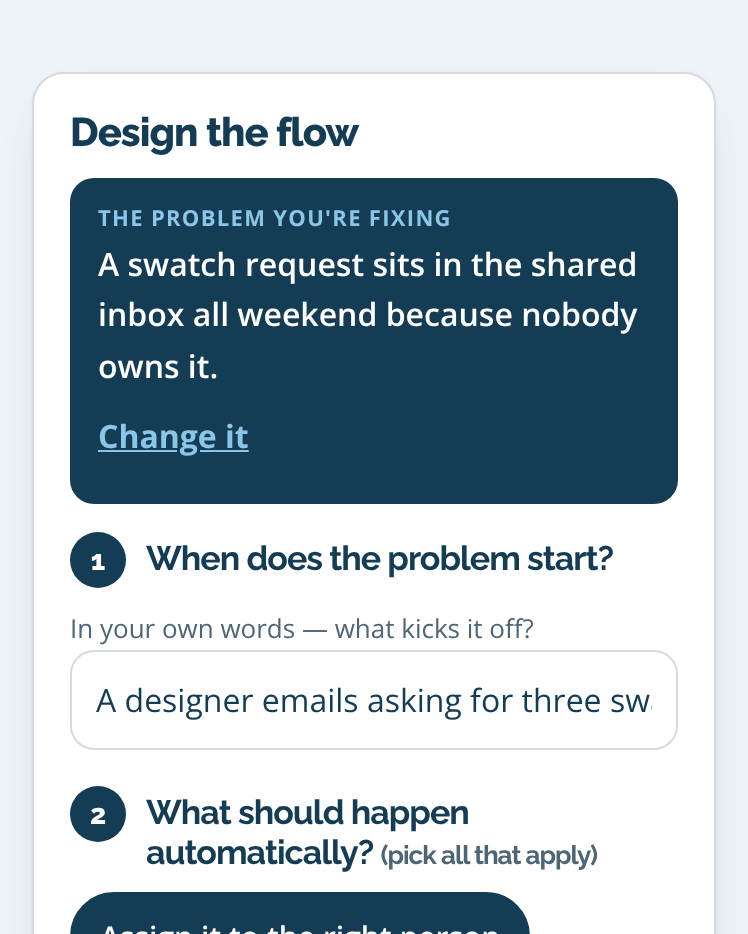
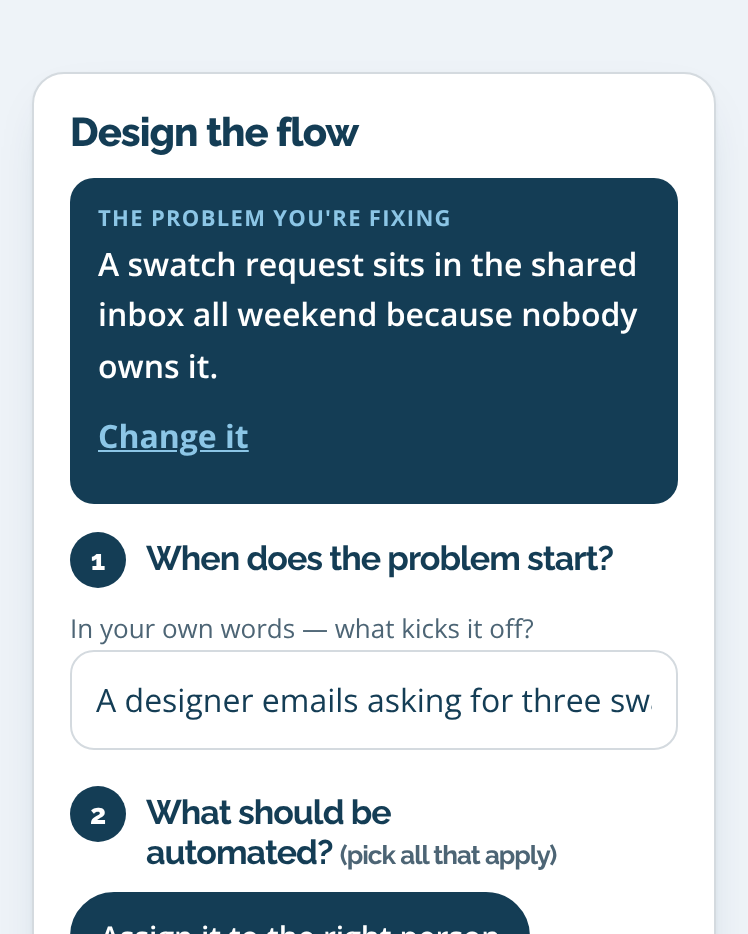
Step 3 wording: "What should be automated?"
- Question 2 is now "What should be automated?" rather than "What
  should happen automatically?".
- Its custom field follows: "Something else that should be automated?"
- The step's own how-to line matches.
- Regenerated the slide screenshots so slide 19 shows the new wording.

Claude-Session: https://claude.ai/code/session_01Hr7wMfKYoBeYjmoic14ePz

Changed region(s): [[0.369, 0.8383, 0.7995, 0.9315]]

diff --git a/curran/breakout.html b/curran/breakout.html
@@ -161,7 +161,7 @@
     <div class="card">
       <div class="eyebrow">Step 3 · Design the flow</div>
       <h2>Design the flow</h2>
-      <div class="howto"><div class="k">How to do this step</div><p>Describe the flow as a recipe in four parts: <b>when</b> it starts, <b>what happens automatically</b>, <b>who is in charge</b>, and <b>how you'd know it worked</b>. Just tap the options that fit &mdash; you're not writing software.</p>
+      <div class="howto"><div class="k">How to do this step</div><p>Describe the flow as a recipe in four parts: <b>when</b> it starts, <b>what should be automated</b>, <b>who is in charge</b>, and <b>how you'd know it worked</b>. Just tap the options that fit &mdash; you're not writing software.</p>
       <ul>
         <li><span class="eg">When a swatch request comes in &rarr; it's assigned to a named rep and they get a reminder &rarr; Sales is in charge &rarr; we'd know it worked because no request sits unanswered.</span></li>
       </ul></div>
@@ -170,9 +170,9 @@
       <div class="step" style="margin-top:14px"><span class="n">1</span><h3>When does the problem start?</h3></div>
       <p class="small" style="margin-top:2px">In your own words — what kicks it off?</p>
       <input type="text" id="trigtext" maxlength="160" placeholder="e.g. a designer emails asking for three swatches">
-      <div class="step" style="margin-top:18px"><span class="n">2</span><h3>What should happen automatically? <span class="small">(pick all that apply)</span></h3></div>
+      <div class="step" style="margin-top:18px"><span class="n">2</span><h3>What should be automated? <span class="small">(pick all that apply)</span></h3></div>
       <div class="chips" id="act"></div>
-      <label class="f" for="actother">Something else it should do? <span class="small">(optional — in your own words)</span></label>
+      <label class="f" for="actother">Something else that should be automated? <span class="small">(optional — in your own words)</span></label>
       <input type="text" id="actother" maxlength="140" placeholder="e.g. flag the order for the install team">
       <div class="step" style="margin-top:18px"><span class="n">3</span><h3>Which team is in charge of it? <span class="small">(pick all that apply)</span></h3></div>
       <div class="chips" id="own"></div>
